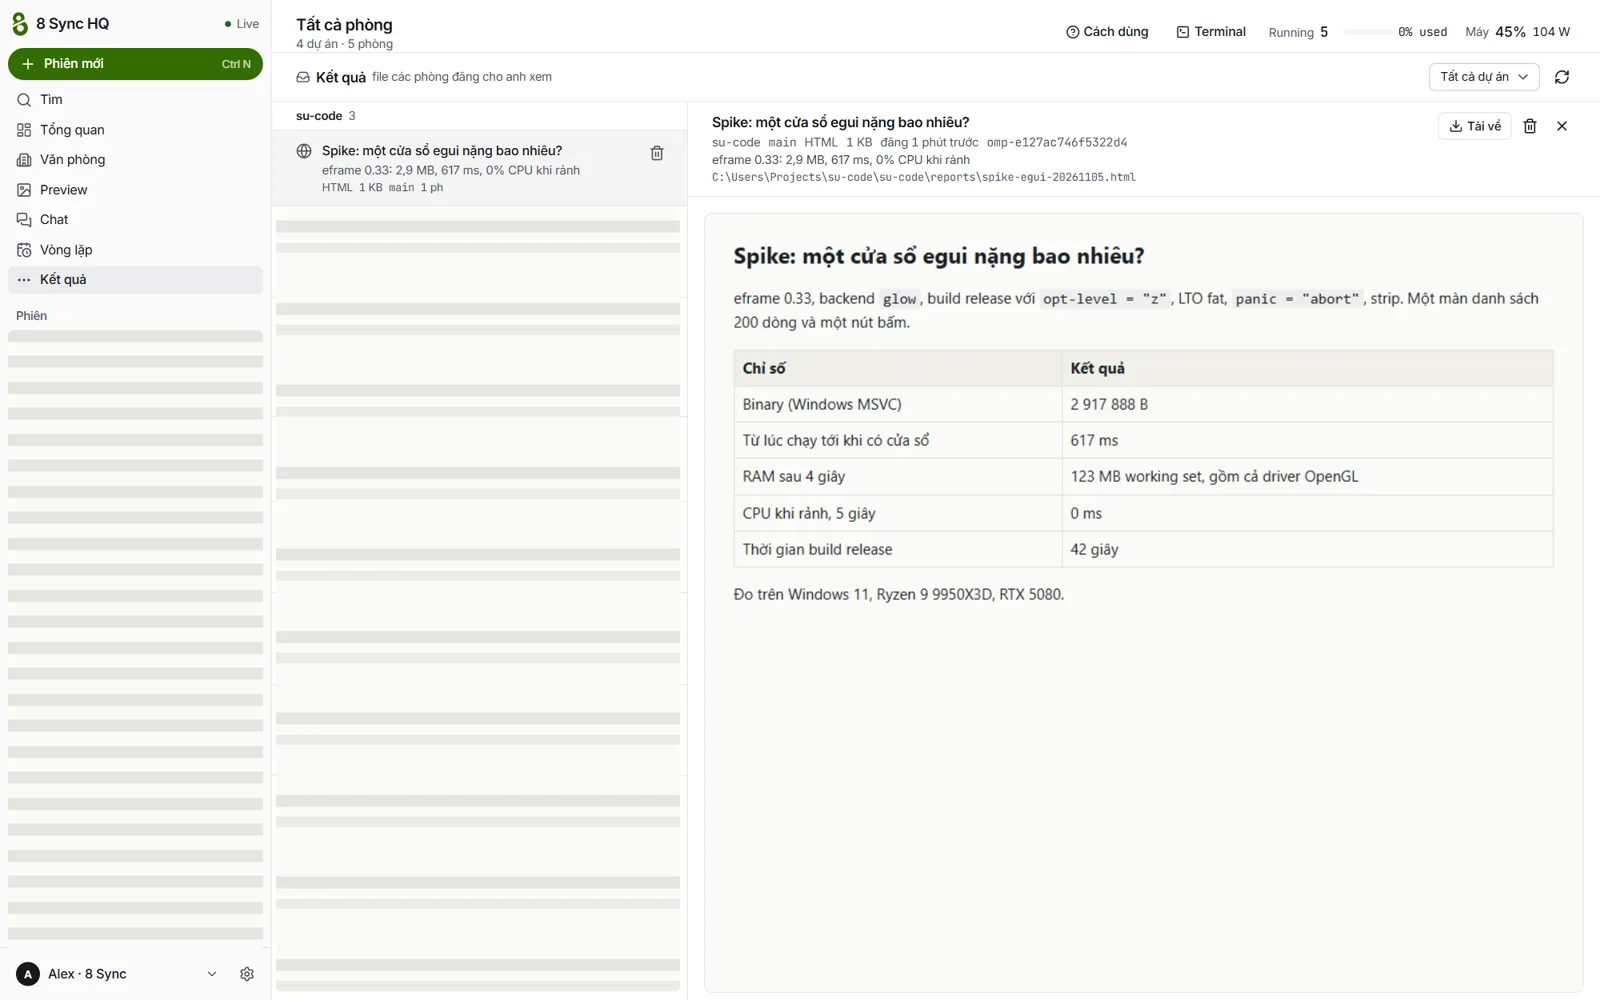
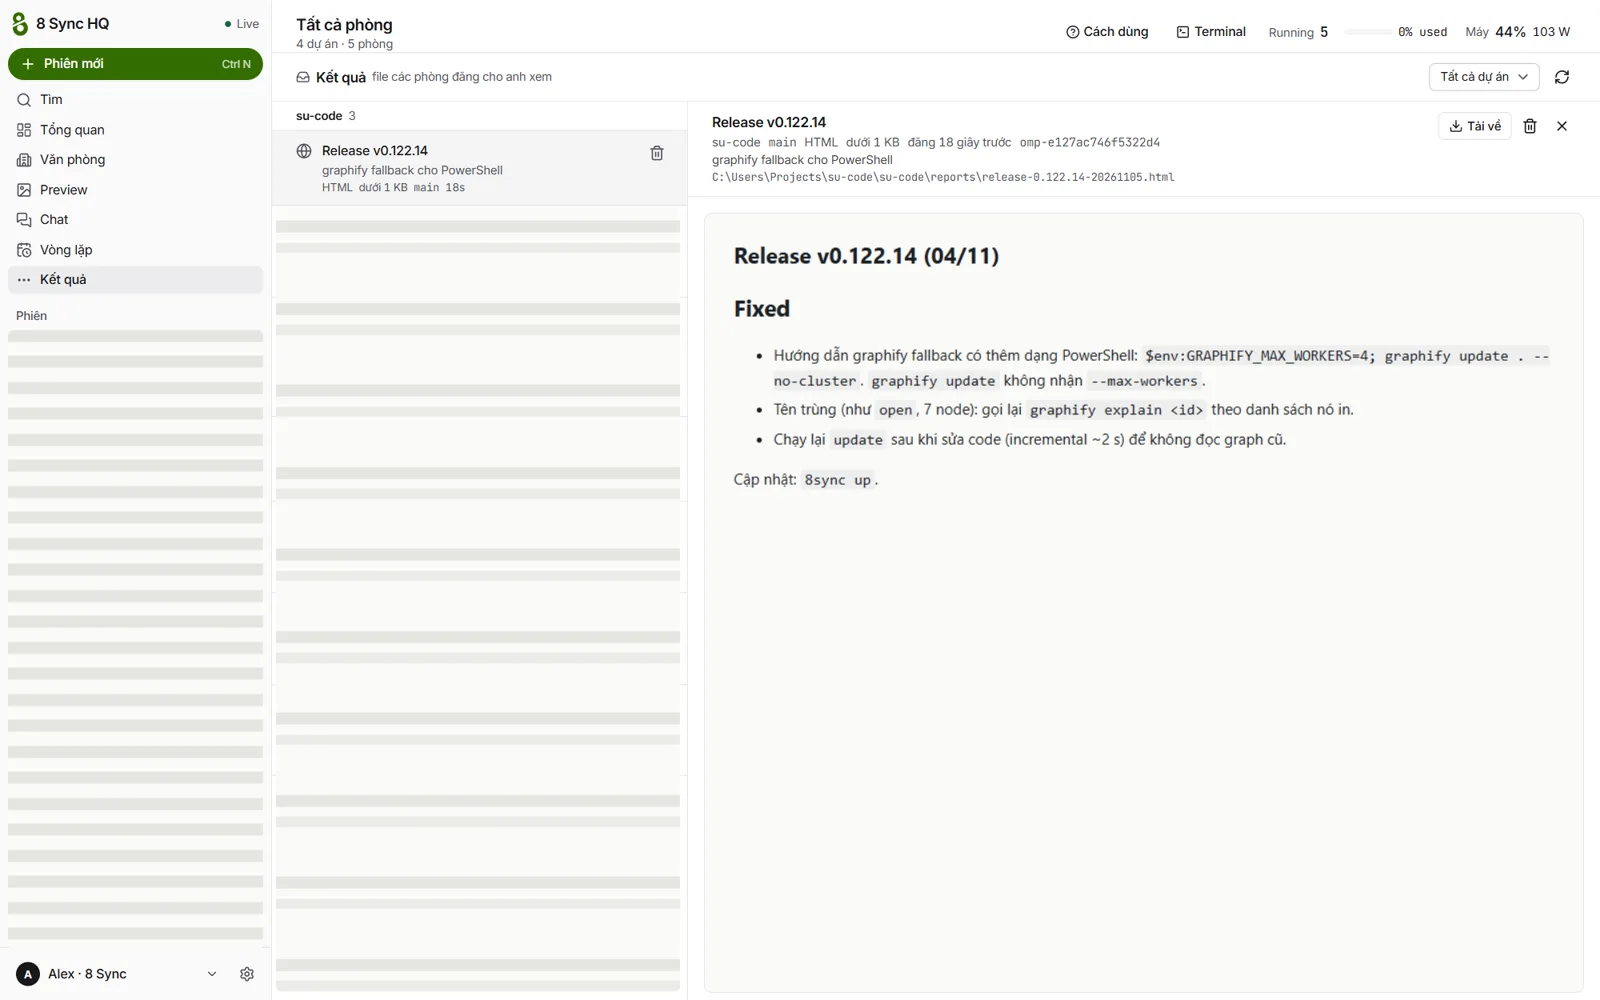
docs(site): neutral Results screenshot; AGENTS bundled skill count 35

diff --git a/AGENTS.md b/AGENTS.md
@@ -281,7 +281,7 @@ Session memory được `omp` tự quản (retain/recall/auto-compact). 8sync ch
 - **ECC rule pack** `.claude/rules/ecc/<pack>/`: phát hiện stack bằng `config/project-stack-mappings.json` của ECC (indicator `{file, contains}`, glob `*`; quét root + sub-dir cấp 1 không ẩn, bỏ `node_modules`/`target`/`dist`/`build`/`.next`/`vendor`/`.venv`), copy `rules/common` + pack của từng stack; pack đã có thì giữ nguyên. Rule chung trong `common/` (trừ `security.md`, `git-workflow.md`) được thêm frontmatter `paths:` một lần (file đã có `---` thì giữ nguyên). Nguồn: checkout nông nhánh mặc định của ECC ở `~/.cache/8sync/ecc`, fetch lại khi quá 6h (`harness`/`global`/`init`/`up`; `up --pull`, `global --pull` và probe nền 6h fetch ngay; offline → warn + giữ bản cũ). Đường launch (`ccc`, `8sync .`) chỉ dùng cache, không mạng. Mỗi lần checkout đổi commit, `harness/ecc_omp.rs` mirror skill ECC vào `~/.omp/agent/managed-skills/` và command vào `~/.omp/agent/commands/ecc-<cmd>.md` (manifest `~/.omp/agent/.8sync-ecc.json`; bản owner sửa thì giữ). Thêm `.claude/rules/ecc/` vào managed `.gitignore` CHỈ khi repo đã ignore `su-code/skills` (policy ignore bản copy sinh ra) — còn lại để owner tự track.
 - **Gỡ layout cũ** (`harness/ecc.rs`): xoá `su-code/skills/<name>` chỉ khi là skill 8sync (bundled / đăng ký `skills.toml` / có trong `~/.omp/skills`) VÀ là bản copy chưa sửa (trùng byte, CRLF-insensitive, với bản bundled hoặc `~/.omp/skills/<name>`) hoặc link 8sync tạo; bản đã sửa + skill của user giữ lại và báo. Gỡ link `.claude`/`.cursor`/`.zcode/skills` → `su-code/skills`, key `skillOverrides: name-only` 8sync đã ghi, và `su-code/skills` nếu rỗng. Tree đã đăng ký làm workspace skill library (`ccc kit --skills-from`) không bị đụng.
 
-**Global (omp):** khi `8sync harness init` (hoặc `8sync setup`) chạy, **34 skill bundled** được deploy vào `~/.omp/skills/` theo [Agent Skills open standard](https://platform.claude.com/docs/en/agents-and-tools/agent-skills/overview). 10 skill **always-on** chia 2 tầng (progressive disclosure — giữ prefix gọn cho KV-cache): 4 **CORE** đọc body ngay đúng thứ tự (trail → karpathy-guidelines → ponytail → 8sync-cli), 6 **specialist** chỉ biết khả năng rồi đọc body khi task khớp; phần còn lại on-demand; `encore-deploy` tech-gated; `social-growth` opt-in:
+**Global (omp):** khi `8sync harness init` (hoặc `8sync setup`) chạy, **35 skill bundled** được deploy vào `~/.omp/skills/` theo [Agent Skills open standard](https://platform.claude.com/docs/en/agents-and-tools/agent-skills/overview). 10 skill **always-on** chia 2 tầng (progressive disclosure — giữ prefix gọn cho KV-cache): 4 **CORE** đọc body ngay đúng thứ tự (trail → karpathy-guidelines → ponytail → 8sync-cli), 6 **specialist** chỉ biết khả năng rồi đọc body khi task khớp; phần còn lại on-demand; `encore-deploy` tech-gated; `social-growth` opt-in:
 
 | Skill | Trigger | Mô tả |
 |---|---|---|
